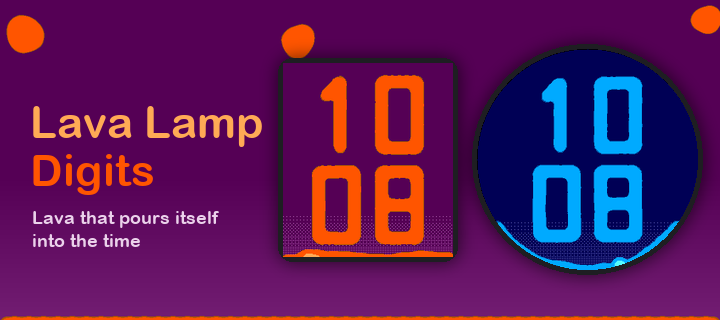
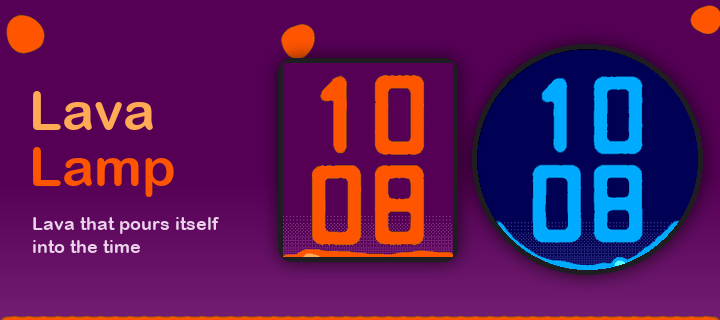
Call it Lava Lamp, link the live listing and show the stills

Changed region(s): [[0.0306, 0.2812, 0.3667, 0.4375], [0.0306, 0.6562, 0.3056, 0.8125], [0.0306, 0.4688, 0.2444, 0.625]]

diff --git a/tools/store_assets.py b/tools/store_assets.py
@@ -163,12 +163,12 @@ def make_banner(rec):
     out.paste(gabbro, (gx, gy), round_mask(gabbro))
 
     d = ImageDraw.Draw(out)
-    title = ImageFont.truetype('/System/Library/Fonts/Supplemental/Arial Rounded Bold.ttf', 44)
+    title = ImageFont.truetype('/System/Library/Fonts/Supplemental/Arial Rounded Bold.ttf', 54)
     tag = ImageFont.truetype('/System/Library/Fonts/Supplemental/Arial Rounded Bold.ttf', 18)
-    d.text((30, 96), 'Lava Lamp', font=title, fill=CORE)
-    d.text((30, 144), 'Digits', font=title, fill=LAVA)
-    d.text((32, 206), 'Lava that pours itself', font=tag, fill=(235, 210, 235))
-    d.text((32, 229), 'into the time', font=tag, fill=(235, 210, 235))
+    d.text((29, 78), 'Lava', font=title, fill=CORE)
+    d.text((29, 134), 'Lamp', font=title, fill=LAVA)
+    d.text((32, 212), 'Lava that pours itself', font=tag, fill=(235, 210, 235))
+    d.text((32, 235), 'into the time', font=tag, fill=(235, 210, 235))
     return out.convert('RGB')
 
 

diff --git a/README.md b/README.md
@@ -1,10 +1,19 @@
-# Lava Lamp Digits
+# Lava Lamp
 
 A Pebble watchface for **Pebble Time 2 (emery)** and **Pebble Round 2 (gabbro)**.
 Blobs of lava drift up and down a lamp, then pour themselves into the time,
 hold for a few seconds, droop and melt apart again.
 
+On the Rebble appstore as
+[Lava Lamp](https://apps.repebble.com/lava-lamp_21794a91d4da4b669c2c3239) (v1.0.0).
+
 ![Time 2](store/emery_1_preview.gif) ![Round 2](store/gabbro_1_preview.gif)
+
+<p>
+  <img src="store/gabbro_3_pour.png" width="160" alt="Lava pouring into the time">
+  <img src="store/emery_4_red.png" width="140" alt="Red lava on yellow liquid">
+  <img src="store/gabbro_5_drift.png" width="160" alt="Blue lava drifting">
+</p>
 
 ## Showing the time
 
@@ -117,11 +126,20 @@ python3 tools/store_assets.py /tmp/lava_rec
 Frame picks live in `PICKS` at the top of the script. Rebuild without the flag
 before releasing, because `build/` keeps whichever variant was built last.
 
-To publish (not done yet), from a clean release build:
+## Releasing
+
+v1.0.0 is live on the store as "Lava Lamp". The repo, the folder and the
+`displayName` in `package.json` still say "Lava Lamp Digits". To ship an
+update, bump `version` in `package.json` past 1.0.0, then publish from a
+clean release build:
 
 ```bash
 pebble publish --non-interactive --no-gif-all-platforms \
-  --description "Lava that pours itself into the time" \
-  --icon-small store/icon_80x80.png --icon-large store/icon_144x144.png \
+  --release-notes "What changed" \
   --screenshots store/emery_*.{gif,png} store/gabbro_*.{gif,png}
 ```
+
+Lava Lamp already exists on the store, so `pebble publish` takes its
+existing-app path. The release goes live immediately, screenshots are added
+rather than replaced (remove old ones on the developer dashboard), and
+`--description` and `--icon-*` are ignored, so change those on the dashboard.
